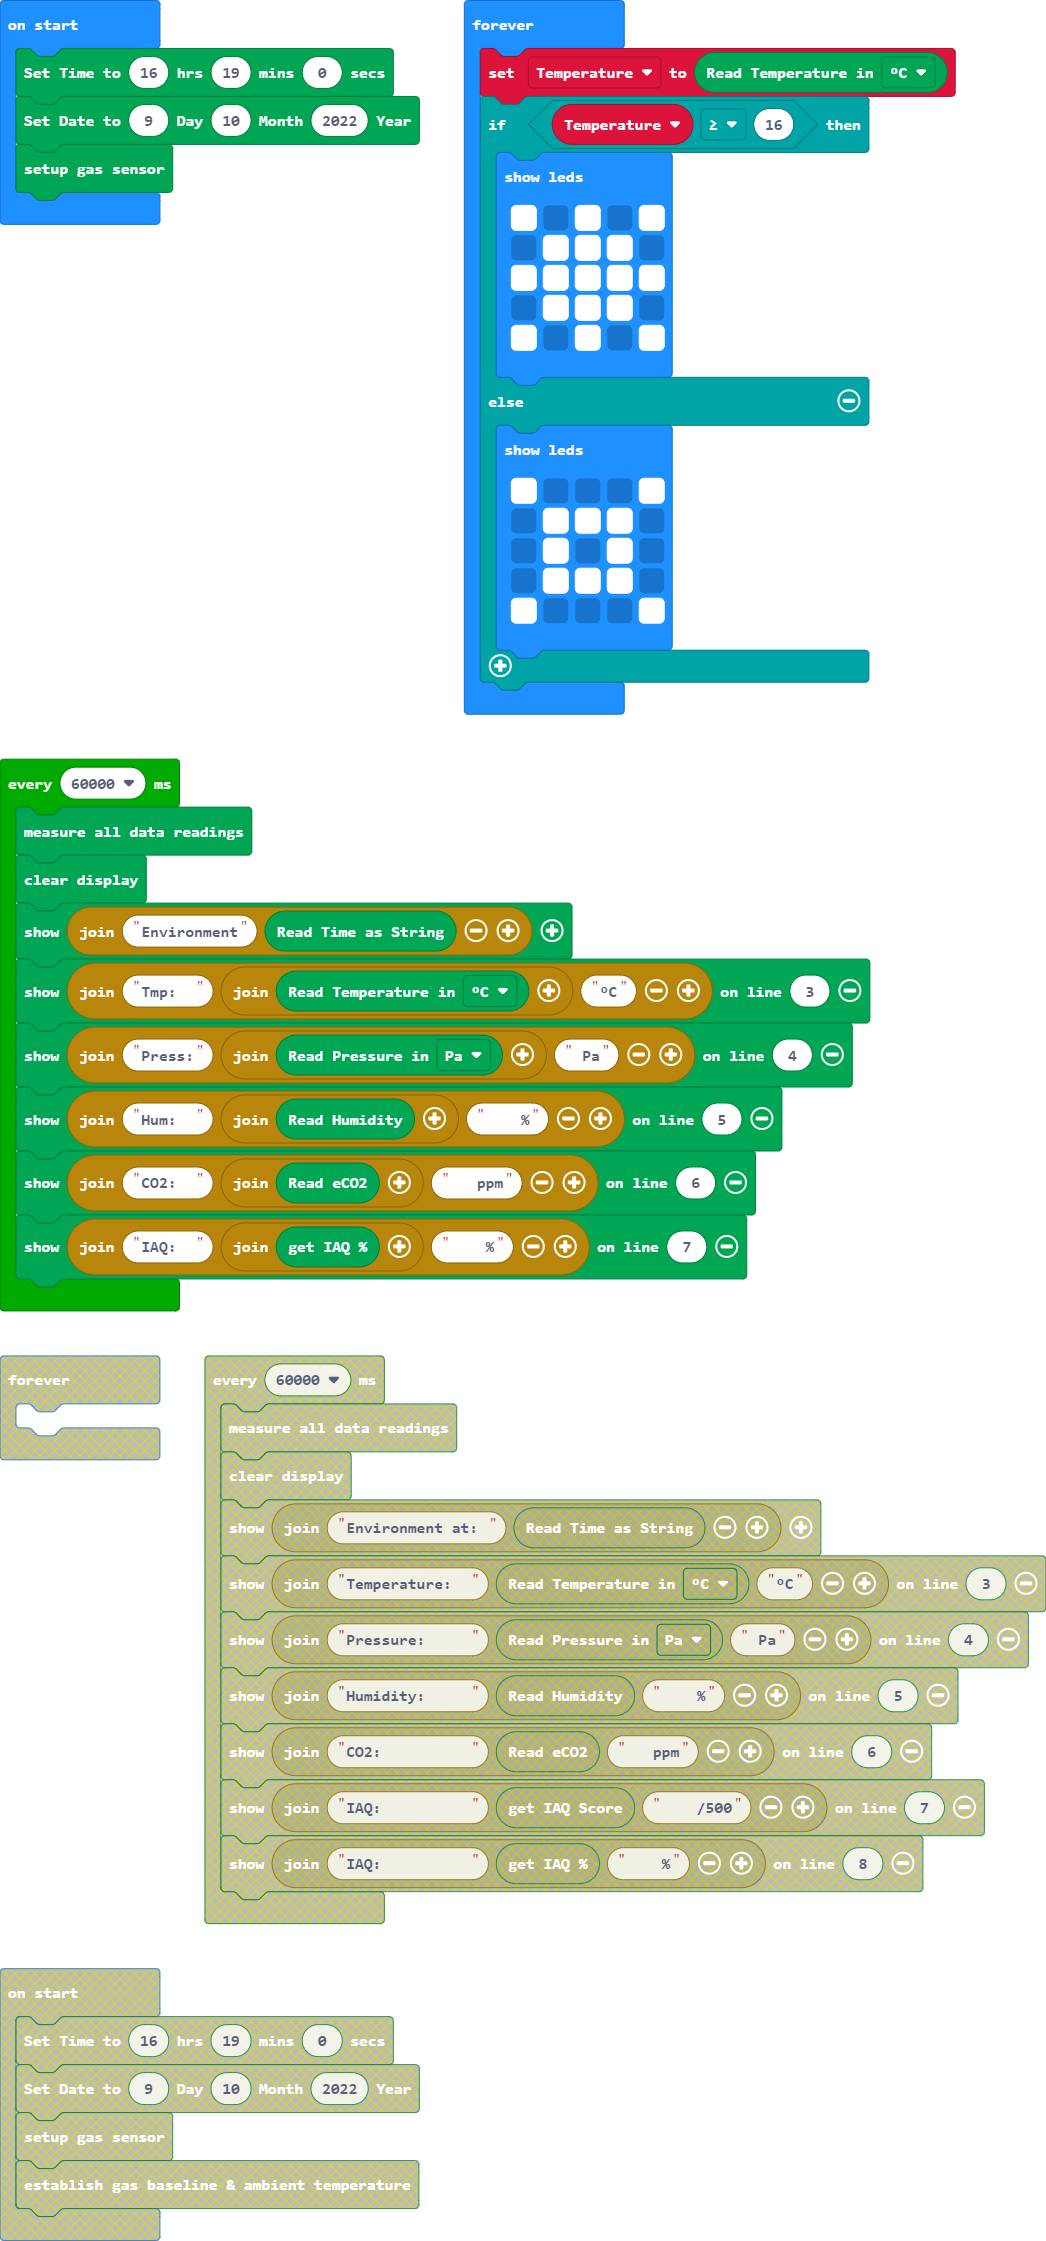
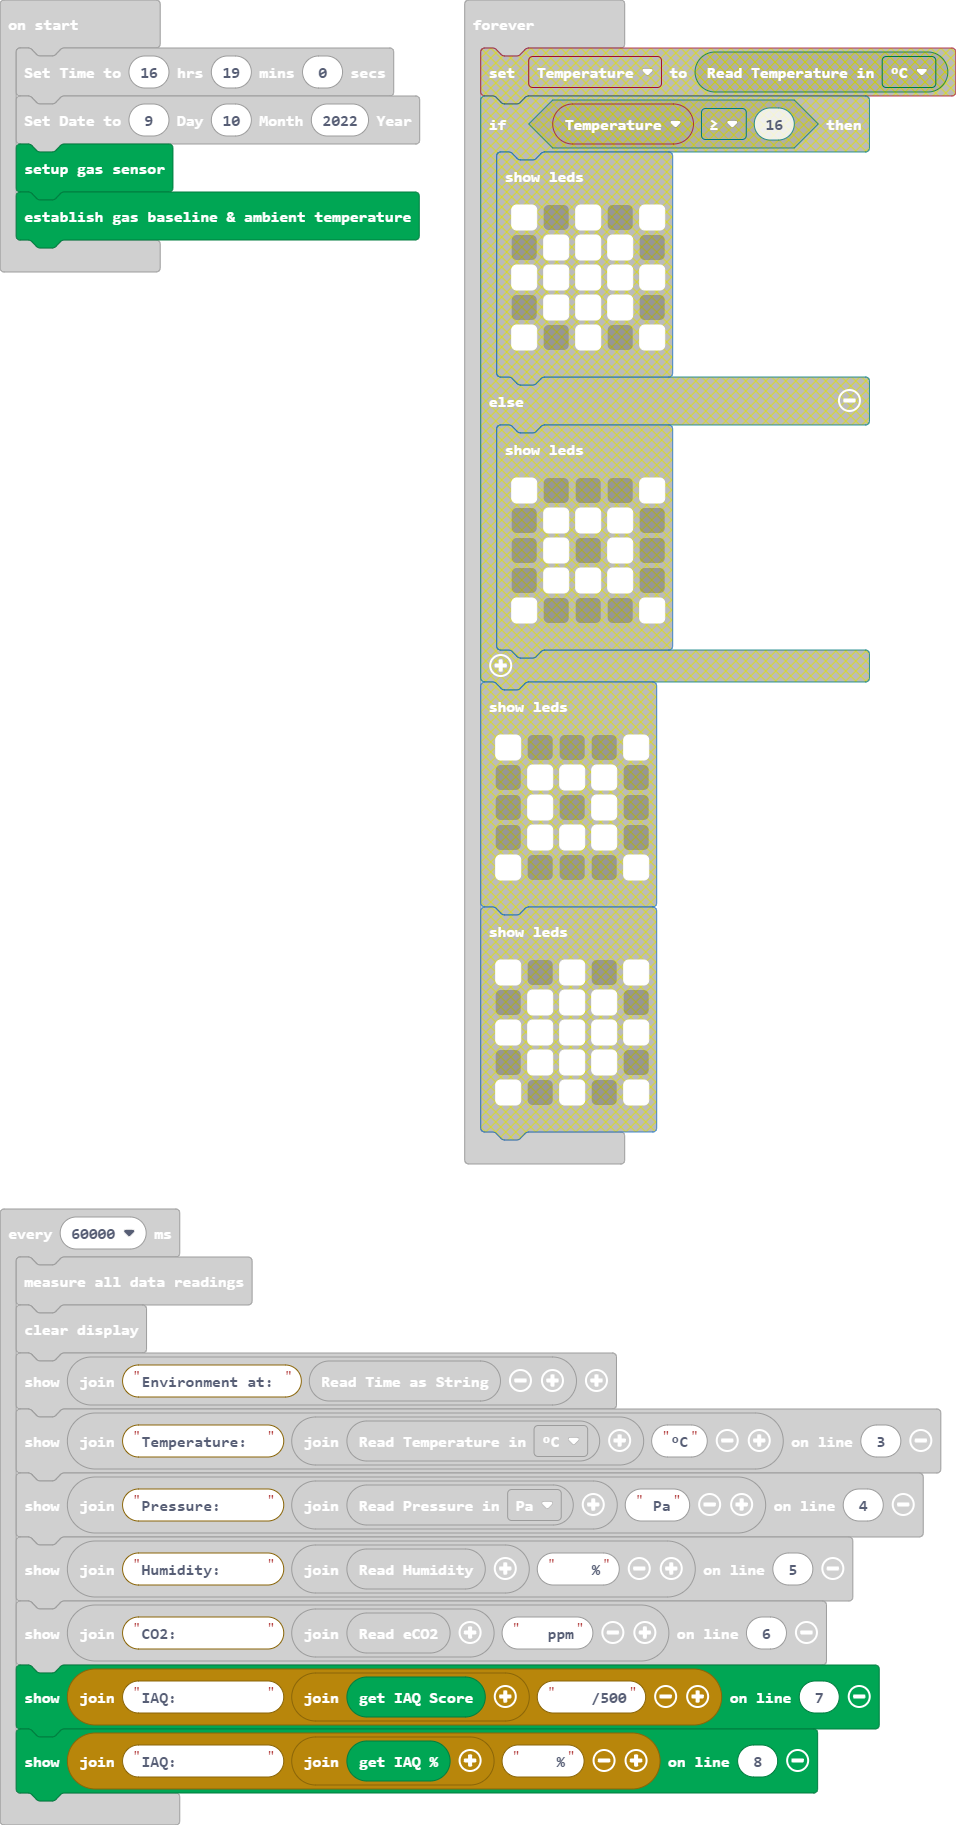
Update main.blocks, main.ts

diff --git a/main.ts b/main.ts
@@ -1,34 +1,18 @@
-let Temperature = 0
 kitronik_air_quality.setTime(16, 19, 0)
 kitronik_air_quality.setDate(9, 10, 2022)
 kitronik_air_quality.setupGasSensor()
+kitronik_air_quality.calcBaselines()
 loops.everyInterval(60000, function () {
     kitronik_air_quality.measureData()
     kitronik_air_quality.clear()
-    kitronik_air_quality.show("Environment" + kitronik_air_quality.readTime())
-    kitronik_air_quality.show("Tmp:  " + ("" + kitronik_air_quality.readTemperature(kitronik_air_quality.TemperatureUnitList.C)) + "°C", 3)
-    kitronik_air_quality.show("Press:" + ("" + kitronik_air_quality.readPressure(kitronik_air_quality.PressureUnitList.Pa)) + " Pa", 4)
-    kitronik_air_quality.show("Hum:  " + ("" + kitronik_air_quality.readHumidity()) + "    %", 5)
-    kitronik_air_quality.show("CO2:  " + ("" + kitronik_air_quality.readeCO2()) + "   ppm", 6)
-    kitronik_air_quality.show("IAQ:  " + ("" + kitronik_air_quality.getAirQualityPercent()) + "    %", 7)
+    kitronik_air_quality.show("Environment at: " + kitronik_air_quality.readTime())
+    kitronik_air_quality.show("Temperature:  " + ("" + kitronik_air_quality.readTemperature(kitronik_air_quality.TemperatureUnitList.C)) + "°C", 3)
+    kitronik_air_quality.show("Pressure:     " + ("" + kitronik_air_quality.readPressure(kitronik_air_quality.PressureUnitList.Pa)) + " Pa", 4)
+    kitronik_air_quality.show("Humidity:     " + ("" + kitronik_air_quality.readHumidity()) + "    %", 5)
+    kitronik_air_quality.show("CO2:          " + ("" + kitronik_air_quality.readeCO2()) + "   ppm", 6)
+    kitronik_air_quality.show("IAQ:          " + ("" + kitronik_air_quality.getAirQualityScore()) + "    /500", 7)
+    kitronik_air_quality.show("IAQ:          " + ("" + kitronik_air_quality.getAirQualityPercent()) + "    %", 8)
 })
 basic.forever(function () {
-    Temperature = kitronik_air_quality.readTemperature(kitronik_air_quality.TemperatureUnitList.C)
-    if (Temperature >= 16) {
-        basic.showLeds(`
-            # . # . #
-            . # # # .
-            # # # # #
-            . # # # .
-            # . # . #
-            `)
-    } else {
-        basic.showLeds(`
-            # . . . #
-            . # # # .
-            . # . # .
-            . # # # .
-            # . . . #
-            `)
-    }
+	
 })
